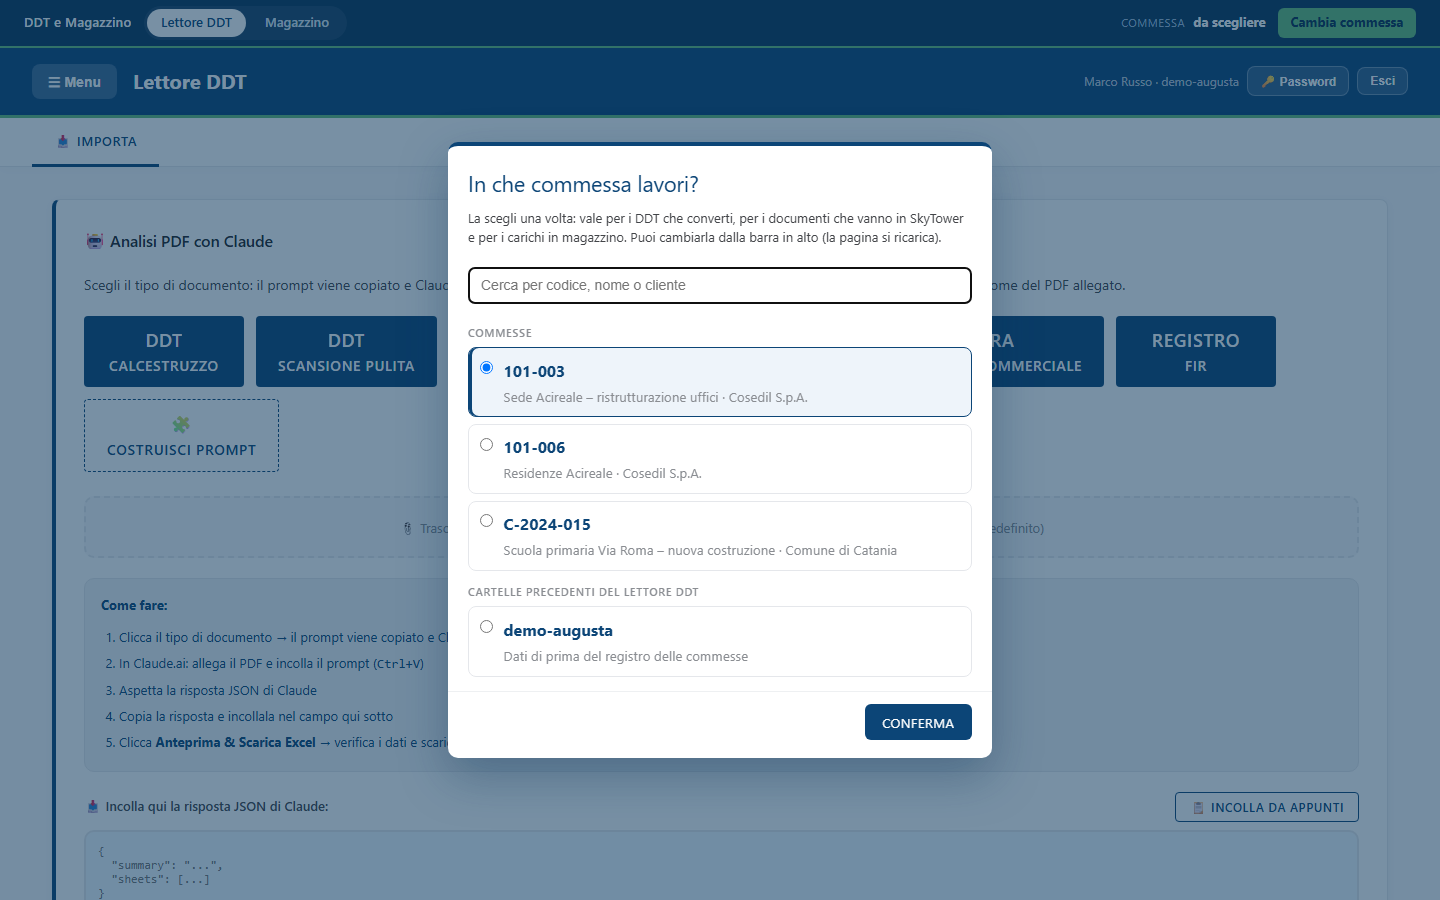
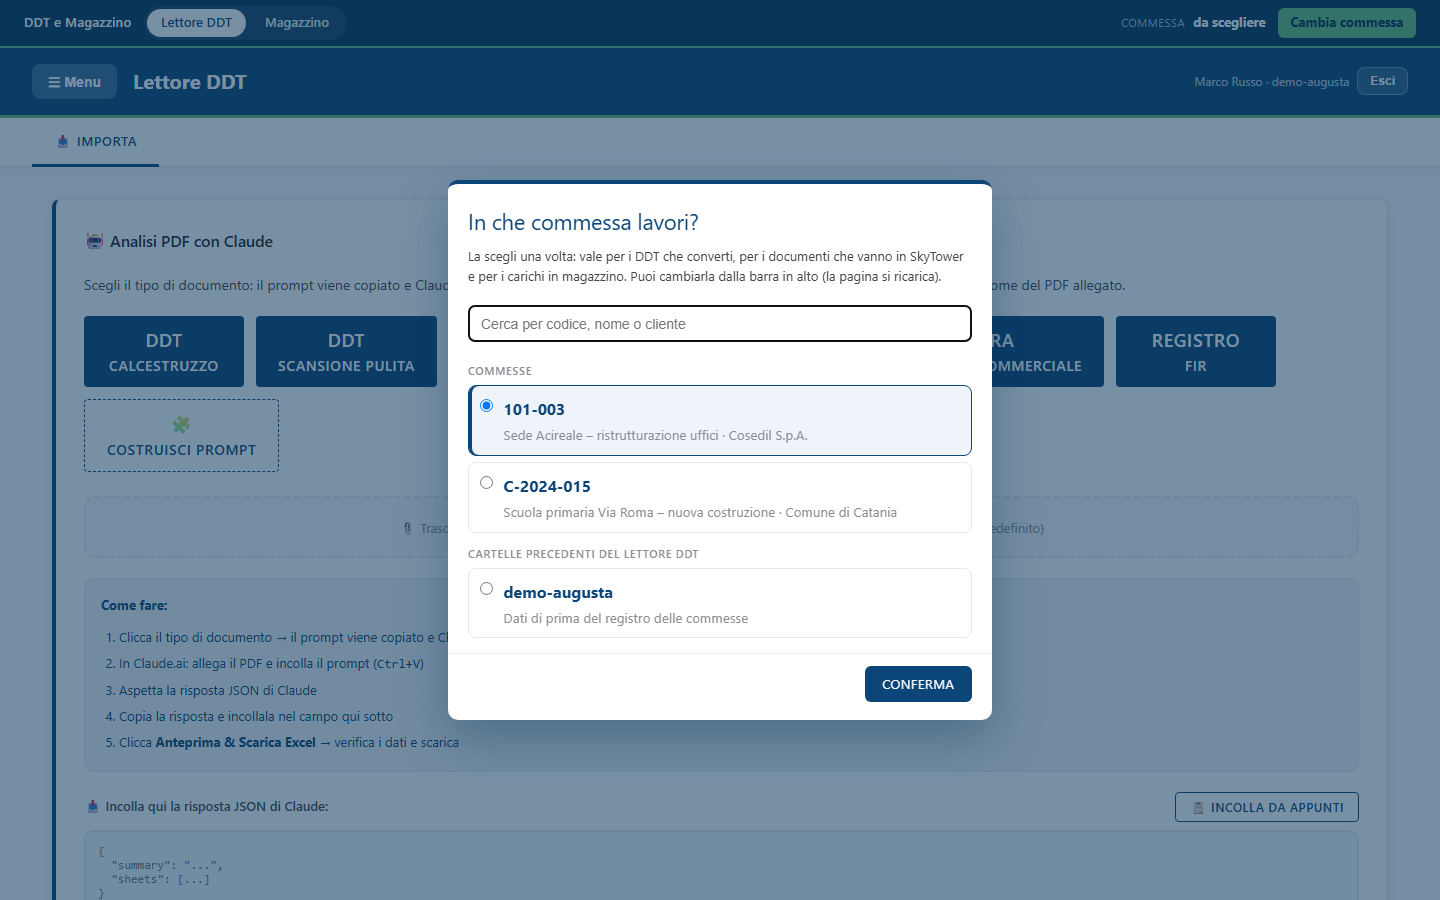
docs(lettore-ddt): immagine 24 della guida con la regola delle commesse abilitate
L'immagine 24 mostrava un utente normale con tutte le commesse del registro (regola di prima del 09/11).
Rifatta col gate del portale acceso (portale finto, istanza di prova con dati inventati): Marco Russo vede
solo le commesse abilitate (101-003, C-2024-015) e la sua cartella precedente; la 101-006 del registro non
compare, niente pulsante Password. Capitolo 1: didascalia e punto 1 con l'esempio.

diff --git a/lettore-ddt/docs/guida/01-accesso.md b/lettore-ddt/docs/guida/01-accesso.md
@@ -30,10 +30,12 @@ che fai finché resti dentro, cioè per
 - i documenti che vanno in **SkyTower** (il PDF della bolla e l'Excel della conversione);
 - i **carichi in magazzino** (i materiali della bolla entrano nel cantiere di quella commessa).
 
-![Scegliere la commessa all'ingresso](img/24-scelta-commessa.png)
+![Scegliere la commessa all'ingresso: un utente con due commesse abilitate e la sua cartella precedente](img/24-scelta-commessa.png)
 
 1. Cerca la commessa per codice, nome o cliente, oppure scorri l'elenco: sono le commesse del **registro della
-   suite** (le stesse di InCampo, SkyTower e Magazzino). Quella proposta è l'ultima che hai usato.
+   suite** (le stesse di InCampo, SkyTower e Magazzino) in cui puoi lavorare, vedi qui sotto. Nell'immagine
+   Marco Russo ha abilitate 101-003 e C-2024-015 più la sua cartella di prima; la 101-006, che c'è nel
+   registro, per lui non compare. Quella proposta è l'ultima che hai usato.
 2. Clicca la commessa e poi **CONFERMA**: la pagina si ricarica con la commessa scelta.
 
 **Quali commesse vedi.** Nell'elenco ci sono solo le commesse in cui puoi lavorare:
